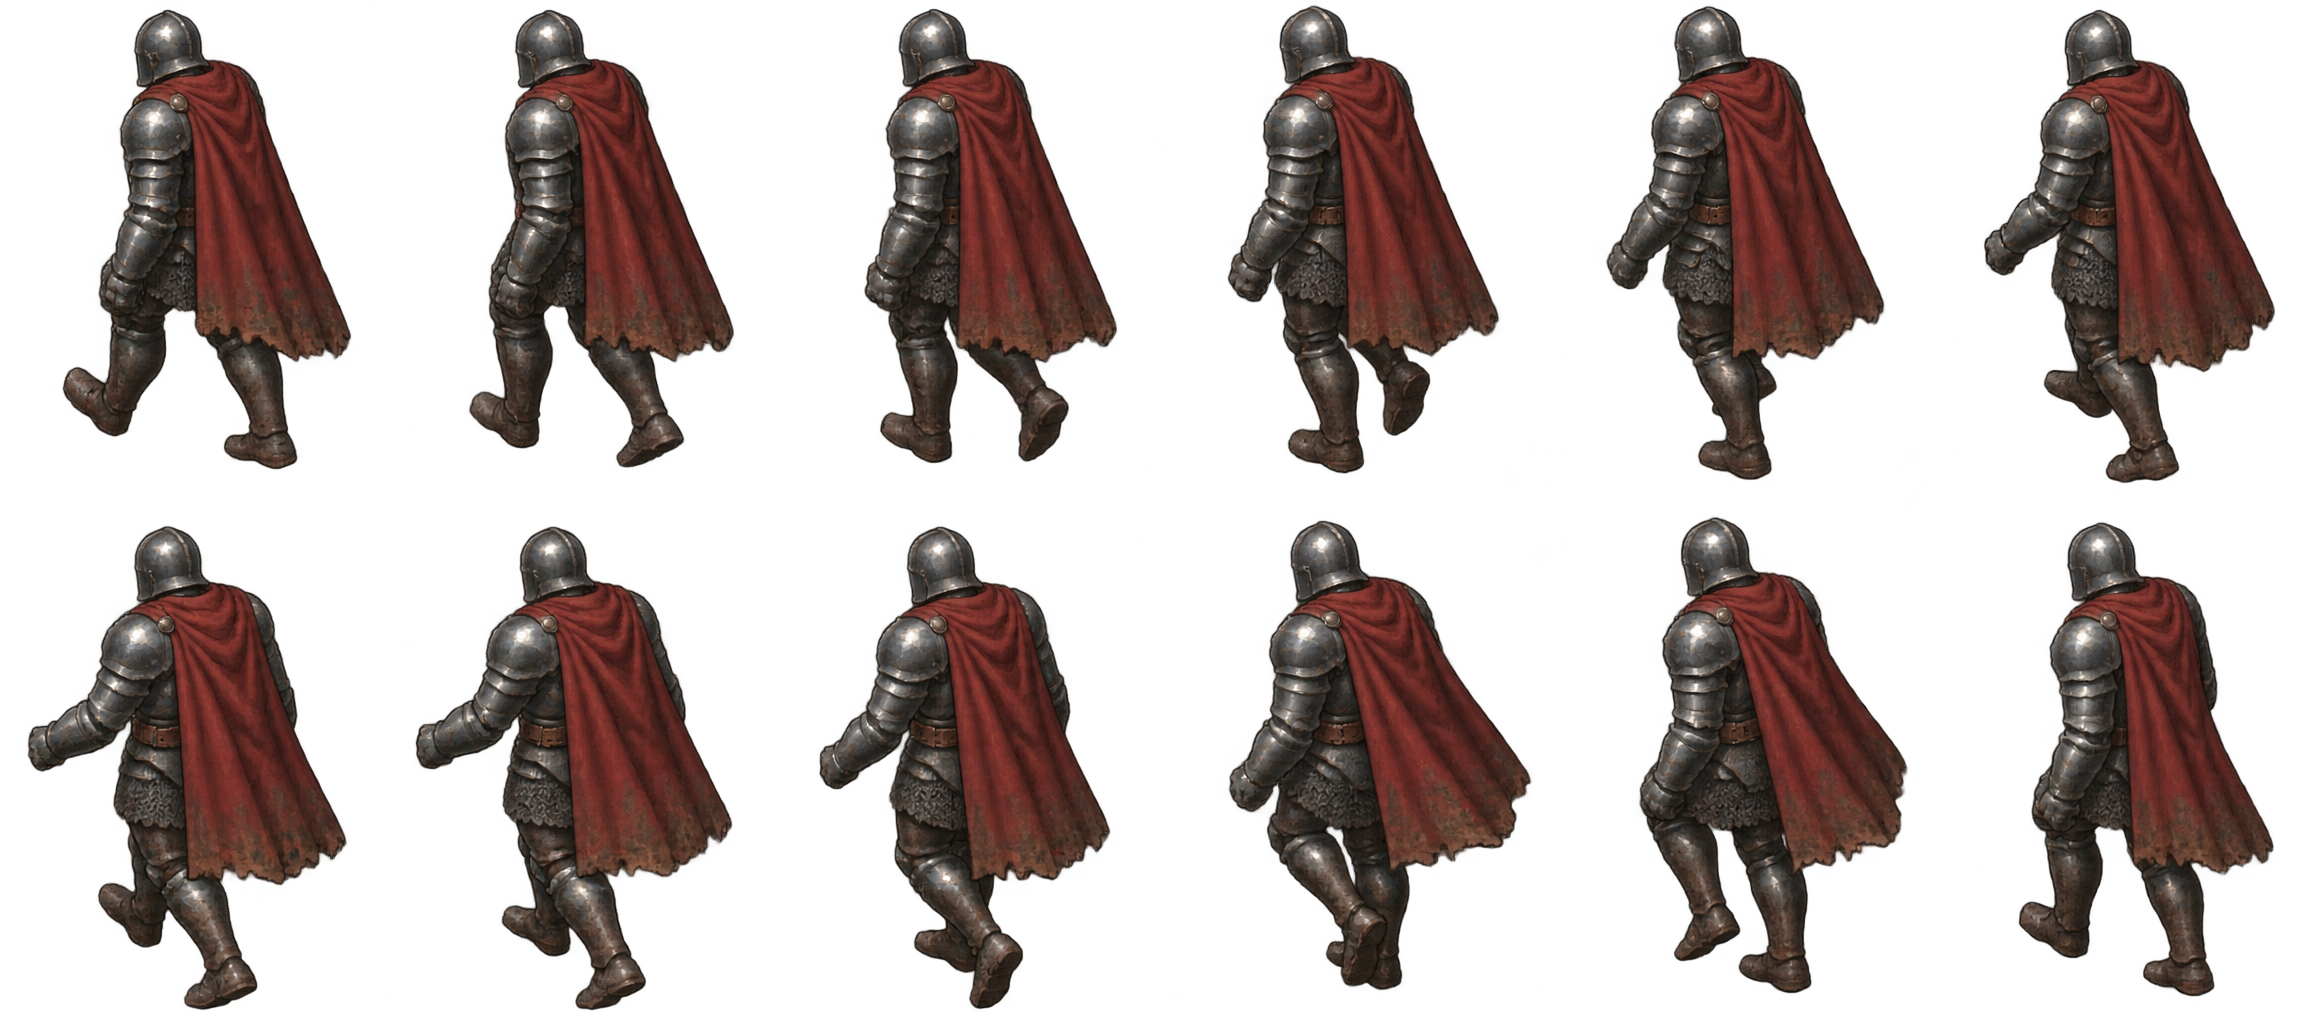
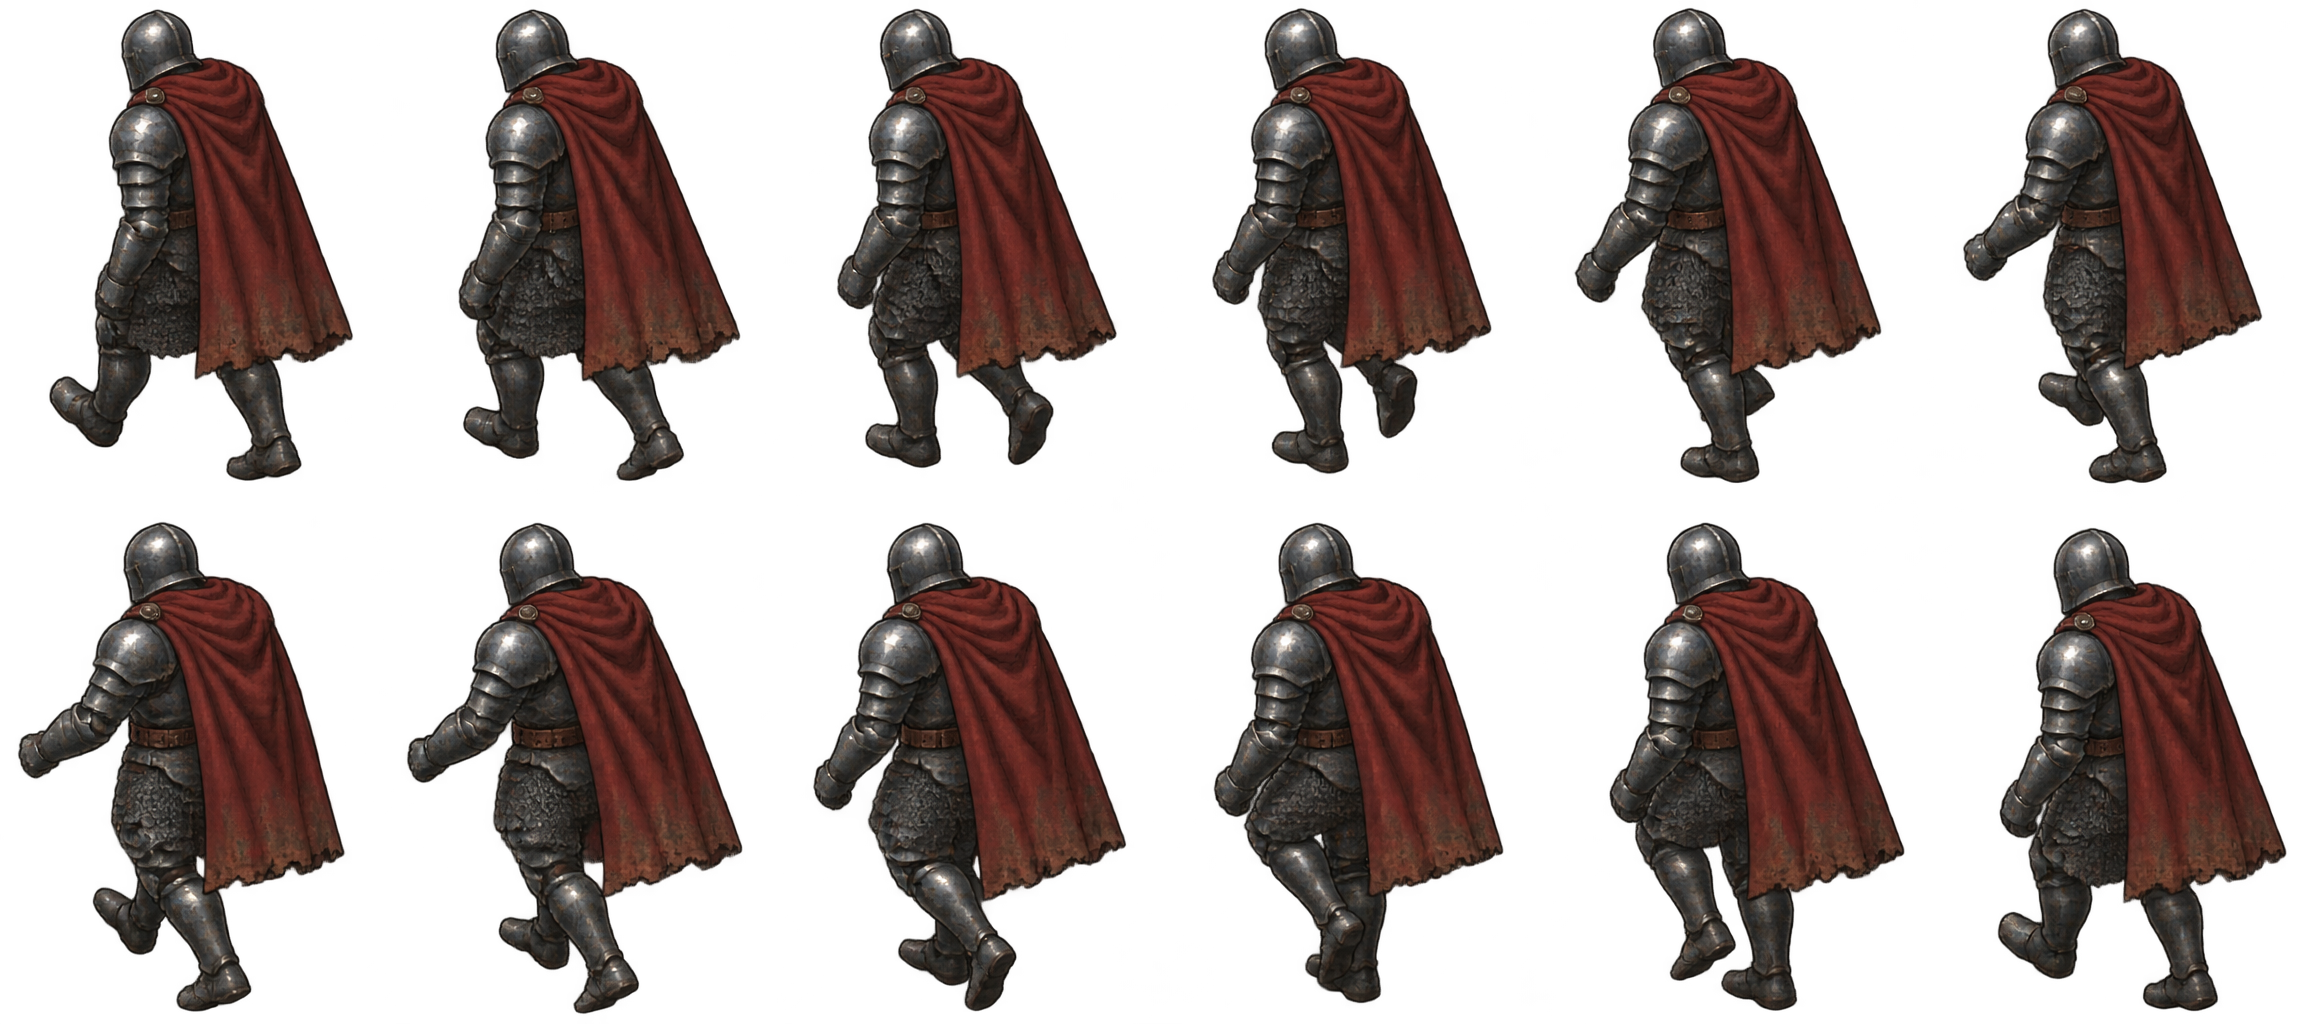
hero-2 NW attempt 3 (steady wide cape); guide_prompt: cloth keeps the same width and never flares

diff --git a/.claude/skills/sprite-animation/tools/guide_prompt.py b/.claude/skills/sprite-animation/tools/guide_prompt.py
@@ -91,7 +91,7 @@ Arms swing opposite to the legs, following the TEAL and YELLOW arms exactly; the
     # differently in every figure, which flickers when the frames play.
     steady = f"""STEADY FROM FRAME TO FRAME (critical: these {n} figures play one after another as an animation, and anything that is redrawn differently in each figure will flicker):
 - Paint the character as if it were ONE 3D model rendered {n} times: the SAME light from the upper left, the SAME highlight and shadow shapes in the SAME places on each surface, the SAME markings (dents, scuffs, stains, patches, patterns, trim) in the SAME spots, the SAME colours.
-- Loose cloth (cloak, cape, skirt, coat tails) keeps the SAME few broad folds in every figure. It hangs from the same points and only sways gently with the stride (its lower edge swings a little opposite to the forward leg); folds never appear, vanish or rearrange between figures.
+- Loose cloth (cloak, cape, skirt, coat tails) keeps the SAME width, the SAME outline and the SAME few broad folds in ALL {n} figures. It is heavy and hangs close to the body from the same points; only its bottom edge moves a little with the stride (swinging slightly opposite to the forward leg). It never flares, billows, puffs out or swings wide to one side, and folds never appear, vanish or rearrange between figures.
 - Hems and edges keep the SAME outline in every figure (the same frayed or torn edge, the same stains), simply moving with the cloth. Never redraw new tears, new jagged points or new stain blotches in each figure.
 - Show shine, wear and texture with a few BOLD shapes, never with fine noise, speckles or scratch texture."""
     return f"""This image is a POSE GUIDE: {layout} Paint over EVERY mannequin, keeping each one's EXACT position, size and pose of legs, arms, torso and head. Do not move, add or remove any figure, and do not change any pose.{inputs}

diff --git a/.claude/skills/sprite-animation/learnings.md b/.claude/skills/sprite-animation/learnings.md
@@ -125,3 +125,8 @@ of `martin/dungeon-crawler-01/tools/ranger_test` for the raw images and comparis
 - **Stocky bodies:** `render_guide.py --preset stocky` (shorter legs, broad shoulders, short neck, `--girth`
   1.35). Girth thickens around the bones without changing lengths; the old length factors alone made a stocky
   build thinner (shorter legs came out thinner too).
+- **"Never flares" for wide cloth** (2026-11-18, hero-2 NW): asking for a WIDE cape (as wide as the shoulders,
+  covering the back) made it puff out in two frames (overlap 0.56 there, 0.73 mean). Adding "keeps the SAME width and
+  outline in ALL figures ... never flares, billows, puffs out or swings wide; heavy, hangs close to the body; only its
+  bottom edge moves a little" gave 0.86 mean, 0.81 worst pair: the steadiest cape so far. Now in guide_prompt.py.
+  Asking for the cape's full width also turned the figure further toward the three-quarter back view.
